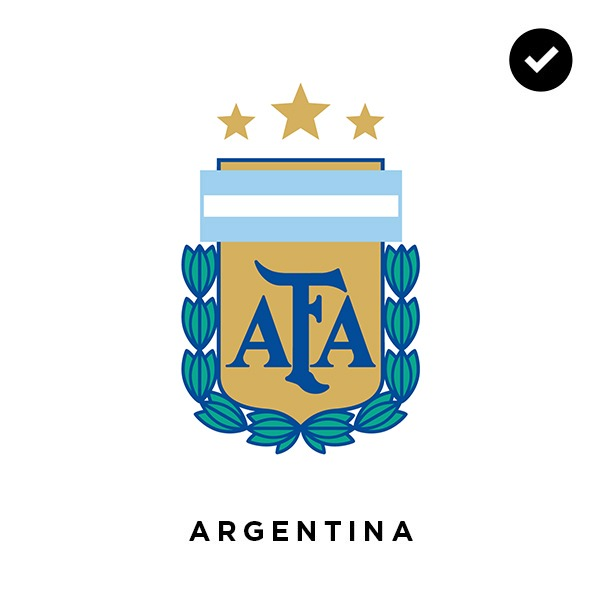
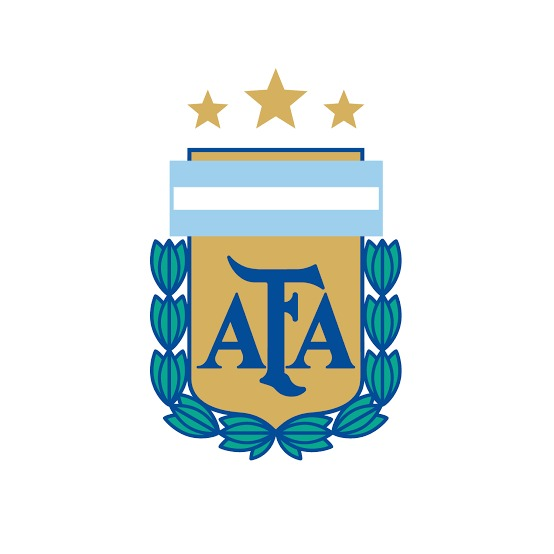
Add files via upload

Changed region(s): [[0.2455, 0.1227, 0.7365, 0.8285], [0.3069, 0.8592, 0.7058, 0.9206], [0.8285, 0.0307, 0.9513, 0.1534]]

diff --git a/public/app.js b/public/app.js
@@ -1293,7 +1293,7 @@ document.getElementById('hubMundiales').addEventListener('click', abrirMundiales
 document.getElementById('hubLigas').addEventListener('click', abrirLigas);
 document.getElementById('hubNumMundial').textContent = SELECCIONES.length + ' selecciones';
 document.getElementById('hubNumLigas').textContent = LIGAS.length + ' ligas · ' + LIGAS.reduce((n, l) => n + l.equipos.length, 0) + ' equipos';
-document.getElementById('hubLogosMundial').innerHTML = '<img class="hub__foto" src="img/marca/mundial-campeones.webp" alt="Selección campeona del Mundial">';
+document.getElementById('hubLogosMundial').innerHTML = '<img class="hub__foto" src="img/marca/mundial-campeones-2.webp" alt="Selección campeona del Mundial">';
 document.getElementById('hubLogosLigas').innerHTML = ['inglaterra', 'espana', 'italia', 'alemania'].map(n => `<img src="img/escudos/ligas/${n}.webp" alt="">`).join('');
 // Los enlaces antiguos "Ver selecciones" / "Ver equipos" abren directamente estas pantallas
 document.querySelectorAll('a[href="#selecciones"]').forEach(a => a.addEventListener('click', e => { e.preventDefault(); abrirMundiales(); }));

diff --git a/public/js/app.js b/public/js/app.js
@@ -1385,7 +1385,7 @@ fetch('/api/camisetas-admin')
     if (pilaVistas.length) pintarVista(); // por si abrieron una pantalla antes de que llegaran
   })
   .catch(e => { panelDebugEscudos('app.js NUEVO cargado, pero /api/camisetas-admin falló', [String(e)]); /* sin conexión con el servidor: se queda el catálogo normal */ });
-document.getElementById('hubLogosMundial').innerHTML = '<img class="hub__foto" src="img/marca/mundial-campeones.webp" alt="Selección campeona del Mundial">';
+document.getElementById('hubLogosMundial').innerHTML = '<img class="hub__foto" src="img/marca/mundial-campeones-2.webp" alt="Selección campeona del Mundial">';
 document.getElementById('hubLogosLigas').innerHTML = ['inglaterra', 'espana', 'italia', 'alemania'].map(n => `<img src="img/escudos/ligas/${n}.webp" alt="">`).join('');
 // Los enlaces antiguos "Ver selecciones" / "Ver equipos" abren directamente estas pantallas
 document.querySelectorAll('a[href="#selecciones"]').forEach(a => a.addEventListener('click', e => { e.preventDefault(); abrirMundiales(); }));
